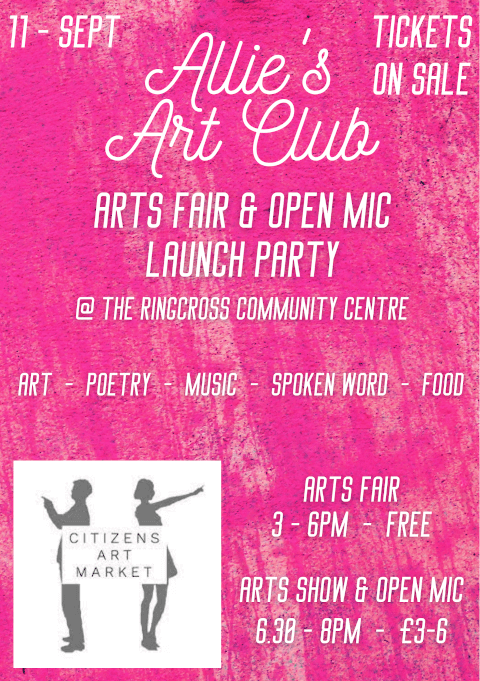
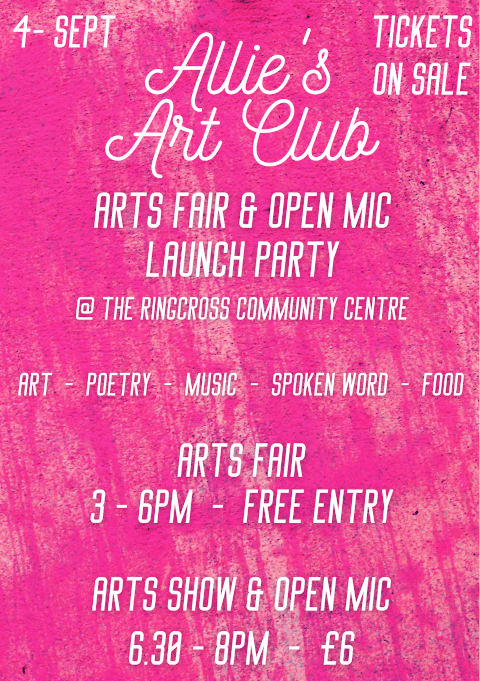
fixes applied

Changed region(s): [[0.0, 0.6476, 0.9688, 0.9868], [0.0938, 0.0, 0.25, 0.0925], [0.0, 0.0, 0.0625, 0.0617]]

diff --git a/client/src/Pages/activities/launchParty.js b/client/src/Pages/activities/launchParty.js
@@ -9,7 +9,8 @@ const LaunchParty=()=>{
                 sideSrc1={"/assets/general/starsL.png"}
                 sideSrc2={"/assets/general/starsR.png"}
                 centreSrc={"/assets/general/curvedLine.png"}
-                title={"Arts Fair & Open Mic Launch Party"}/>
+                title={"Arts Fair & Open Mic"}
+                title2={"Launch Party"}/>
                 
             <picture>
                     <source media="(max-width: 1024px)" srcSet="/assets/activities/events/launchParty/launchParty2-small.png 1x, /assets/activities/events/launchParty/launchParty2-large.png 2x"/>
@@ -24,7 +25,7 @@ const LaunchParty=()=>{
                     <TextImageSquareTop mobile={true} src={'/assets/activities/events/launchParty/launchParty2-large.png'} alt="Art Care"/>
                 </picture>  
             <SubHeading>Arts Fair</SubHeading>
-            <Paragraph>Running from 3 – 6pm, our free arts fair will include an art market run by Citizens Art Market showcasing a range of talented artists.</Paragraph>
+            <Paragraph>Running from 3 – 6pm, our free arts fair will include an art market showcasing a range of talented artists.</Paragraph>
             <Paragraph>We will also have stalls selling delicious hot food, live DJ sets and space to socialise and enjoy a creative community atmosphere.</Paragraph>
             <SubHeading>Arts Show</SubHeading>
             <Paragraph>Hosted by our Club’s pioneer, poet and activist Lydia Rose, our arts show will include a fantastic range of live poetry, spoken word and music performances. We will also have open mic slots available with a reduced ticket price for those who would like to perform their art on stage.</Paragraph>

diff --git a/client/src/Pages/activities/landingPage.js b/client/src/Pages/activities/landingPage.js
@@ -1,11 +1,12 @@
 const activities = [
     {
         src: "/assets/activities/events/launchParty/launchParty1",
-        title: "Arts Fair & Open Mic Launch Party",
+        title: "Arts Fair & Open Mic",
+        title2: "Launch Party",
         date: "11th September 2021",
         category: "Events",
         subcategory: "Ongoing",
-        description: "Our first arts event hosted at the Ringcross Community Centre, including an art market run by Citizens Art Market and an arts show with live poetry and music."
+        description: "Our first arts event hosted at the Ringcross Community Centre, including an art market and an arts show with live poetry and music."
     },
     {
         src: "/assets/activities/projects/artCare/artCare",

diff --git a/client/src/Components/article.js b/client/src/Components/article.js
@@ -46,6 +46,15 @@ const Article=(props)=>{
                                 </ArticleTitle>:
                                 null
                             }
+                            {
+                                props.title2?
+
+                                <ArticleTitle largeHeading={props.largeHeading}>
+                                    {props.title2}
+                                </ArticleTitle>:
+                                null
+
+                            }
                         </ArticleTitleWrap>
                         <ArticleSummary largeHeading={props.largeHeading}>{props.children}</ArticleSummary>
                         <Border alt="border bottom" src={"/assets/general/border.png"}/>

diff --git a/client/src/Components/titleBanner/titleBanner.js b/client/src/Components/titleBanner/titleBanner.js
@@ -32,6 +32,11 @@ const TitleBanner = (props) => {
                    :
                    <ImageTitle sideSrc1={props.sideSrc1} sideSrc2={props.sideSrc2} centreSrc={props.centreSrc}>{props.title}</ImageTitle>
             }
+            {
+                props.title2?
+                <ImageTitle sideSrc1={props.sideSrc1} sideSrc2={props.sideSrc2} centreSrc={props.centreSrc}>{props.title2}</ImageTitle>
+                :null
+            }   
                     </CentreImageWrapper>
                     
             {
